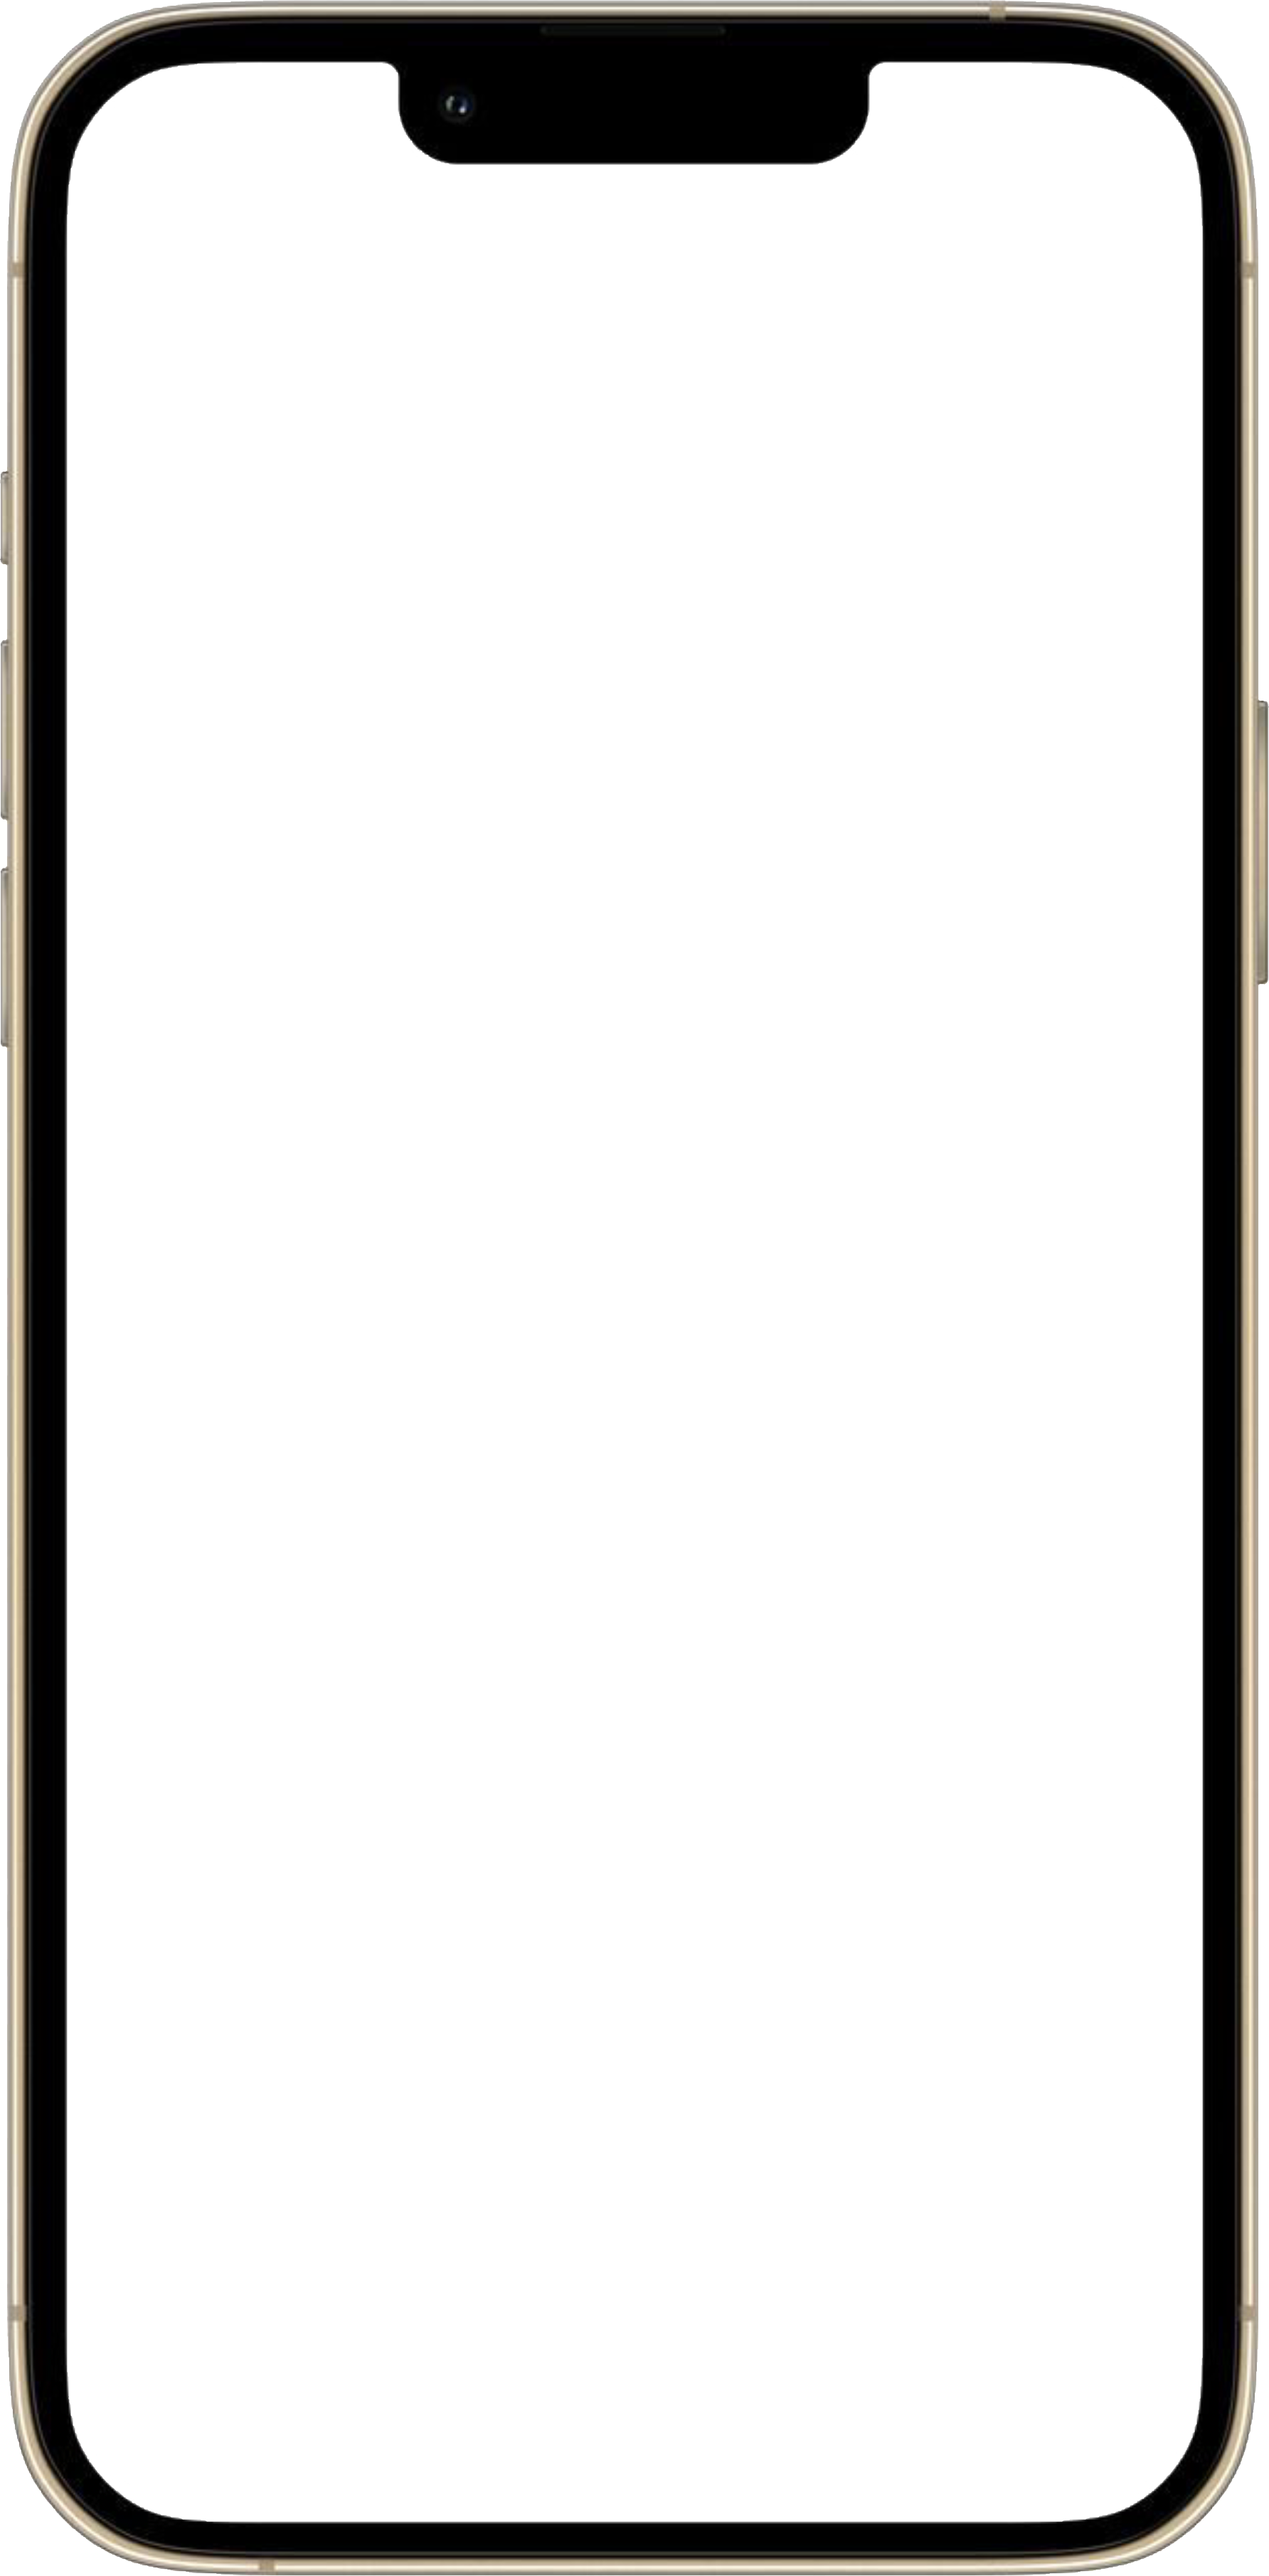
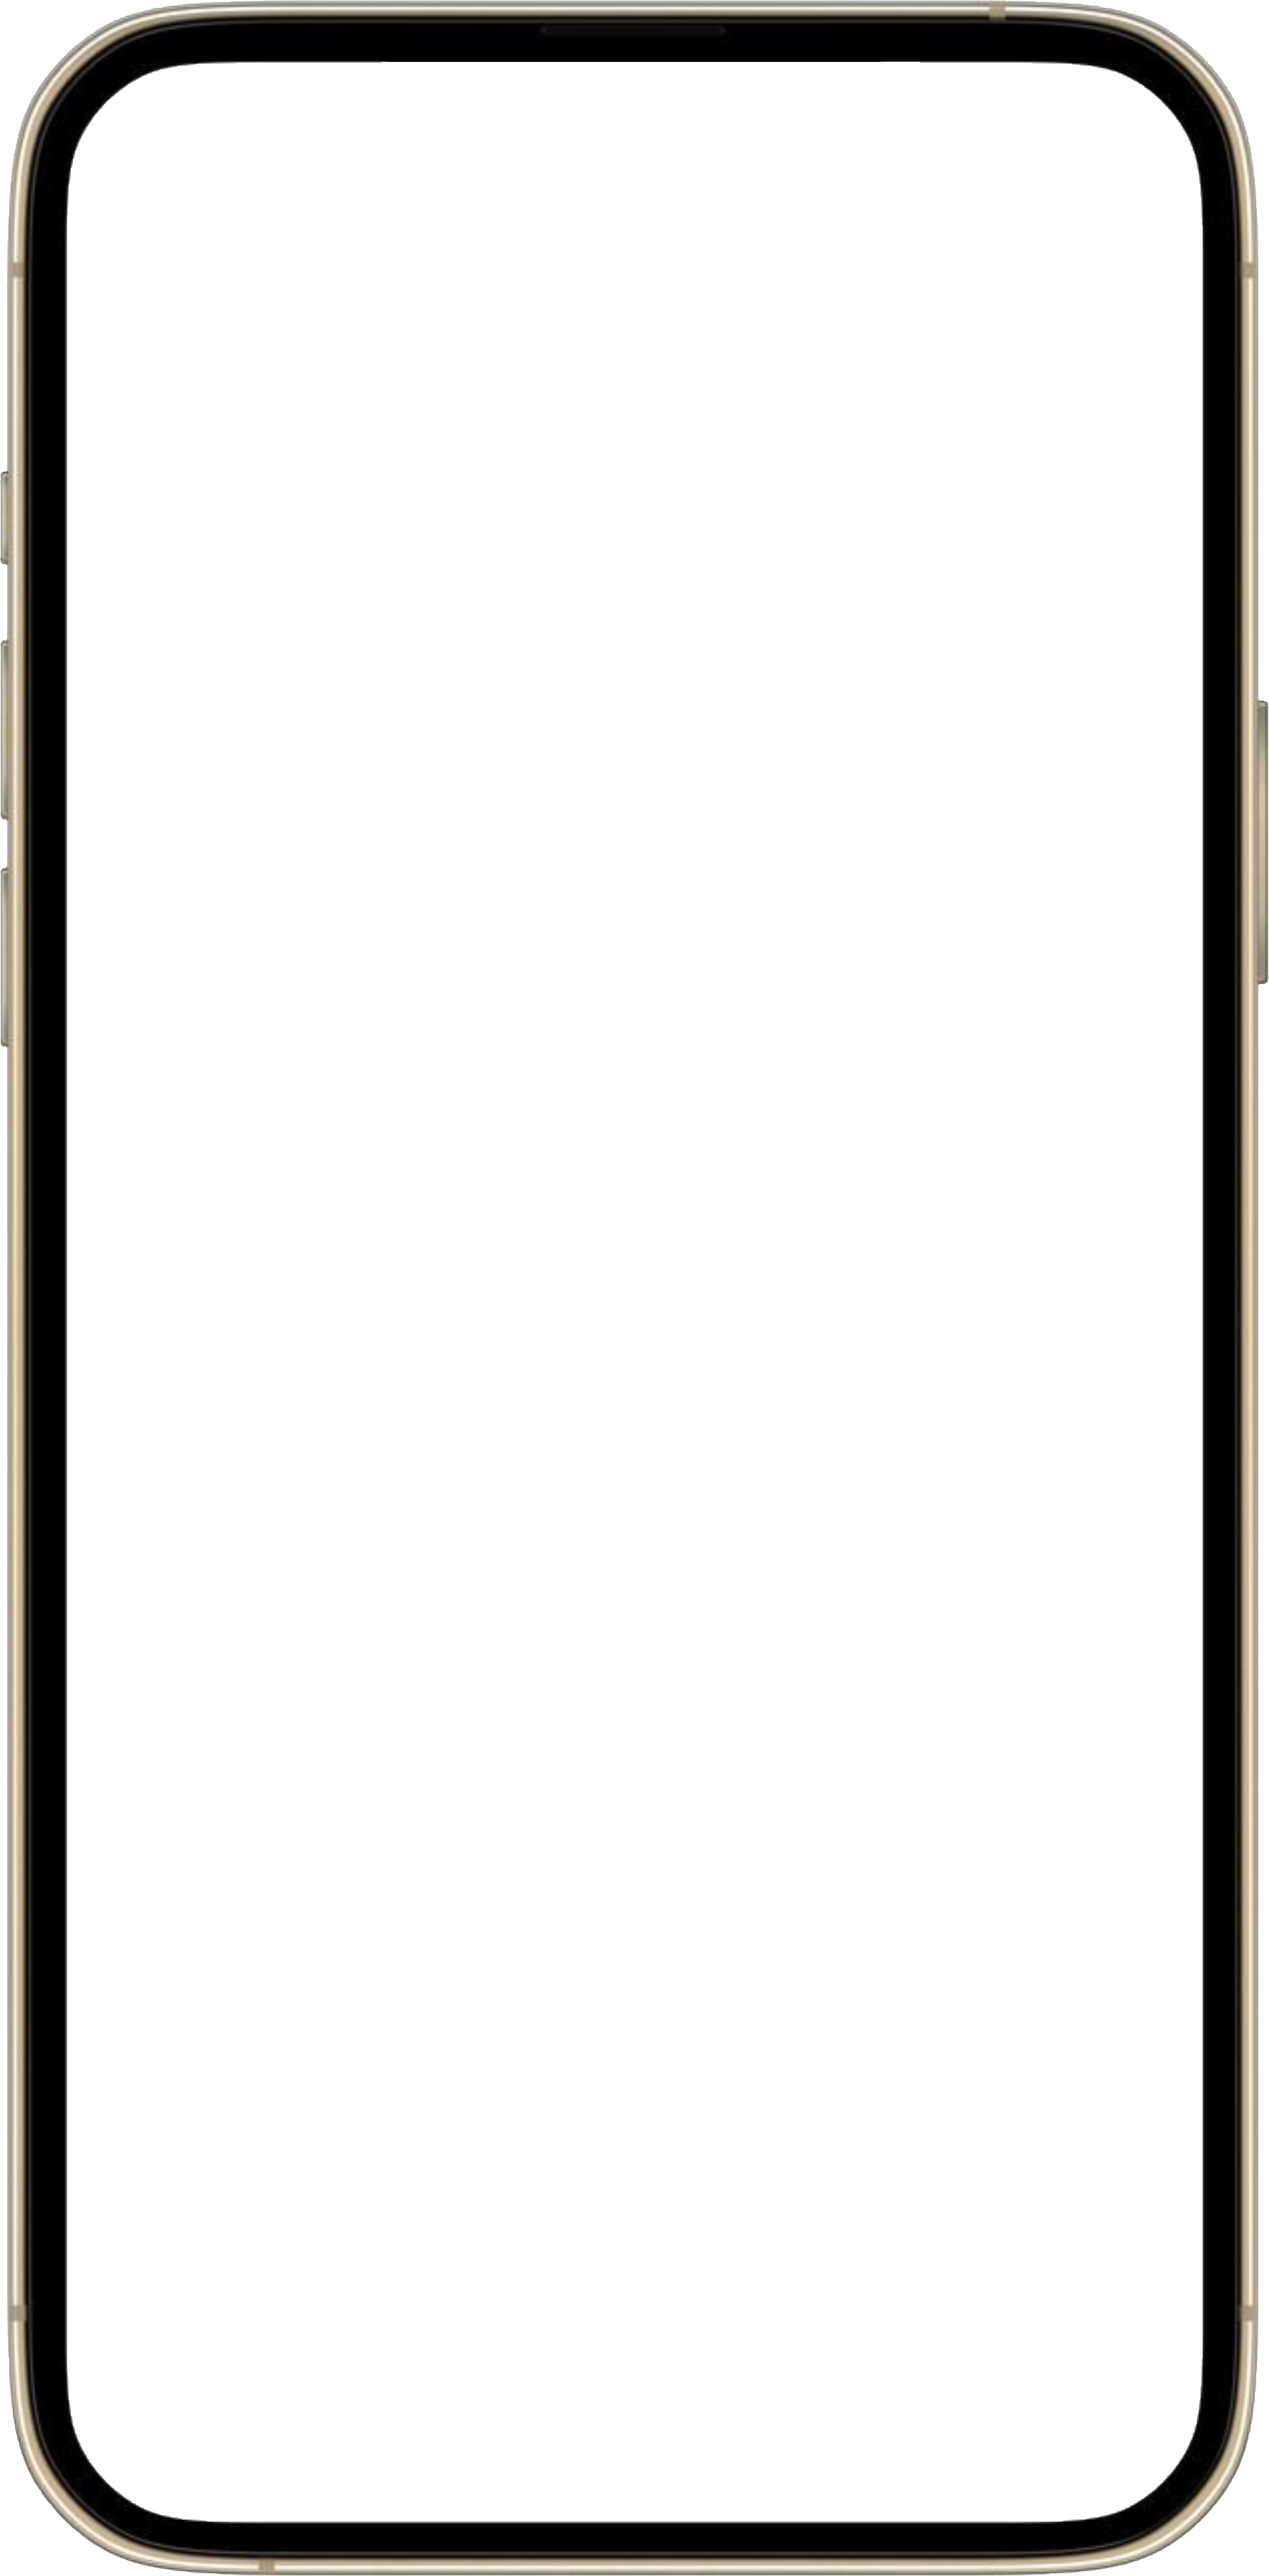
update global menu and background image

Changed region(s): [[0.3083, 0.0, 0.7091, 0.0624]]

diff --git a/skills.html b/skills.html
@@ -46,22 +46,25 @@
 <body>
     <div class="wrap">
         <div class="phone-wrap">
-            <div class="menu-popup">
-                <ul>
-                    <li><a href="./about.html">About</a></li>
-                    <li><a href="./skills.html">Skiils</a></li>
-                    <li><a href="./works.html">Works</a></li>
-                    <li><a href="./contact.html">Contact</a></li>
-                </ul>
-            </div>
             <div id="phone">
+                <div class="menu-popup">
+                    <ul>
+                        <li><a href="./index.html">Home</a></li>
+                        <li><a href="./about.html">About</a></li>
+                        <li><a href="./skills.html">Skiils</a></li>
+                        <li><a href="./works.html">Works</a></li>
+                        <li><a href="./contact.html">Contact</a></li>
+                    </ul>
+                </div>
                 <img src="./images/phone.png" alt="" class="phone-device">
-                <div class="phone-top skills">
+                <div class="phone-top white">
                     <span>10:15</span>
-                    <div>
-                        <a class="home" href="./index.html"><img src="./images/ico_home.png" alt=""></a>
+                    <div class="dynamic">
                         <span class="menu"><img src="./images/ico_menu_color.png" alt=""></span>
-                        <!-- <img src="./images/wifi.png" alt="" class="wifi"> -->
+                        <span>MENU</span>
+                    </div>
+                    <div class="phone-top-info">
+                        <img src="./images/wifi_white.png" alt="" class="wifi">
                         <img src="./images/ico_battery_white.png" alt="" class="battery">
                     </div>
                 </div>
@@ -131,10 +134,6 @@
                                     <div><img src="./images/ico_license.png" alt=""></div>
                                     <span>정보처리기사</span>
                                 </li>
-                                <!-- <li>
-                                    <div><img src="./images/ico_license.png" alt=""></div>
-                                    <span>2종보통 운전면허</span>
-                                </li> -->
                             </ul>
                         </div>
                     </div>
@@ -150,38 +149,6 @@
 <script src="https://code.highcharts.com/modules/export-data.js"></script>
 <script src="https://code.highcharts.com/modules/accessibility.js"></script>
 <script>
-    function renderIcons() {
-        this.series.forEach(series => {
-            if (!series.icon) {
-                series.icon = this.renderer
-                    .text(
-                        `<i class="fa fa-${series.options.custom.icon}"></i>`,
-                        0,
-                        0,
-                        true
-                    )
-                    .attr({
-                        zIndex: 10
-                    })
-                    .css({
-                        color: series.options.custom.iconColor,
-                        fontSize: '1.5em'
-                    })
-                    .add(this.series[2].group);
-            }
-            series.icon.attr({
-                x: this.chartWidth / 2 - 15,
-                y: this.plotHeight / 2 -
-                    series.points[0].shapeArgs.innerR -
-                    (
-                        series.points[0].shapeArgs.r -
-                        series.points[0].shapeArgs.innerR
-                    ) / 2 +
-                    8
-            });
-        });
-    }
-
     const trackColors = Highcharts.getOptions().colors.map(color =>
         new Highcharts.Color(color).setOpacity(0.3).get()
     );
@@ -198,9 +165,6 @@
             spacingBottom: 0,
             spacingLeft: 0,
             plotBorderWidth: 0,
-            events: {
-                render: renderIcons
-            },
             backgroundColor: 'transparent'
         },
 
@@ -224,17 +188,17 @@
         pane: {
             startAngle: 0,
             endAngle: 360,
-            background: [{ // Track for Conversion
+            background: [{ 
                 outerRadius: '112%',
                 innerRadius: '88%',
                 backgroundColor: 'transparent',
                 borderWidth: 0
-            }, { // Track for Engagement
+            }, { 
                 outerRadius: '87%',
                 innerRadius: '63%',
                 backgroundColor: 'transparent',
                 borderWidth: 0
-            }, { // Track for Feedback
+            }, {
                 outerRadius: '62%',
                 innerRadius: '38%',
                 backgroundColor: 'transparent',
@@ -268,10 +232,6 @@
                 innerRadius: '88%',
                 y: 95
             }],
-            // custom: {
-            //     icon: 'filter',
-            //     iconColor: '#303030'
-            // }
         }, {
             name: 'css',
             data: [{
@@ -280,10 +240,6 @@
                 innerRadius: '63%',
                 y: 95
             }],
-            // custom: {
-            //     icon: 'comments-o',
-            //     iconColor: '#ffffff'
-            // }
         }, {
             name: 'js',
             data: [{
@@ -292,10 +248,6 @@
                 innerRadius: '38%',
                 y: 90
             }],
-            // custom: {
-            //     icon: 'commenting-o',
-            //     iconColor: '#303030'
-            // }
         }]
     });
 

diff --git a/contact.html b/contact.html
@@ -46,22 +46,25 @@
 <body>
     <div class="wrap">
         <div class="phone-wrap">
-            <div class="menu-popup">
-                <ul>
-                    <li><a href="./about.html">About</a></li>
-                    <li><a href="./skills.html">Skiils</a></li>
-                    <li><a href="./works.html">Works</a></li>
-                    <li><a href="./contact.html">Contact</a></li>
-                </ul>
-            </div>
             <div id="phone">
+                <div class="menu-popup">
+                    <ul>
+                        <li><a href="./index.html">Home</a></li>
+                        <li><a href="./about.html">About</a></li>
+                        <li><a href="./skills.html">Skiils</a></li>
+                        <li><a href="./works.html">Works</a></li>
+                        <li><a href="./contact.html">Contact</a></li>
+                    </ul>
+                </div>
                 <img src="./images/phone.png" alt="" class="phone-device">
                 <div class="phone-top">
                     <span>10:15</span>
-                    <div>
-                        <a class="home" href="./index.html"><img src="./images/ico_home.png" alt=""></a>
+                    <div class="dynamic">
                         <span class="menu"><img src="./images/ico_menu_color.png" alt=""></span>
-                        <!-- <img src="./images/wifi.png" alt="" class="wifi"> -->
+                        <span>MENU</span>
+                    </div>
+                    <div class="phone-top-info">
+                        <img src="./images/wifi.png" alt="" class="wifi">
                         <img src="./images/ico_battery.png" alt="" class="battery">
                     </div>
                 </div>

diff --git a/works.html b/works.html
@@ -66,22 +66,25 @@
 <body>
     <div class="wrap">
         <div class="phone-wrap">
-            <div class="menu-popup">
-                <ul>
-                    <li><a href="./about.html">About</a></li>
-                    <li><a href="./skills.html">Skiils</a></li>
-                    <li><a href="./works.html">Works</a></li>
-                    <li><a href="./contact.html">Contact</a></li>
-                </ul>
-            </div>
             <div id="phone">
+                <div class="menu-popup">
+                    <ul>
+                        <li><a href="./index.html">Home</a></li>
+                        <li><a href="./about.html">About</a></li>
+                        <li><a href="./skills.html">Skiils</a></li>
+                        <li><a href="./works.html">Works</a></li>
+                        <li><a href="./contact.html">Contact</a></li>
+                    </ul>
+                </div>
                 <img src="./images/phone.png" alt="" class="phone-device">
                 <div class="phone-top">
                     <span>10:15</span>
-                    <div>
-                        <a class="home" href="./index.html"><img src="./images/ico_home.png" alt=""></a>
+                    <div class="dynamic">
                         <span class="menu"><img src="./images/ico_menu_color.png" alt=""></span>
-                        <!-- <img src="./images/wifi.png" alt="" class="wifi"> -->
+                        <span>MENU</span>
+                    </div>
+                    <div class="phone-top-info">
+                        <img src="./images/wifi.png" alt="" class="wifi">
                         <img src="./images/ico_battery.png" alt="" class="battery">
                     </div>
                 </div>

diff --git a/css/main.css b/css/main.css
@@ -60,11 +60,13 @@
 .navigation ul li:not(:last-child) {margin-bottom: 1.5vh;}
 .navigation ul li span {width: fit-content; display: inline-block;}
 .phone-top {position: absolute; top: 25px; width: 100%; padding: 0 45px 0 50px; box-sizing: border-box; font-size: 14px; color: #000; font-weight: 500; display: flex; align-items: center; justify-content: space-between; z-index: 9}
-.phone-top.skills {color: #fff;}
+.phone-top.white {color: #fff;}
 .phone-top div {display: flex; align-items: center; gap: 5px;}
-.phone-top .home img, .phone-top .menu img {height: 18px;}
+.phone-top .dynamic {font-size: 12px; background-color: #000; border-radius: 25px; padding: 3px 12px; box-sizing: border-box; min-width: 115px; color: #eee; font-weight: 300; justify-content: space-between;}
+.phone-top .dynamic .menu, .phone-top .dynamic .menu img {height: 15px;}
+.phone-top.white .dynamic {background-color: #fff; color: #000;}
 .phone-top .wifi {height: 15px;}
-.phone-top .battery {height: 20px;}
+.phone-top .battery {height: 22px;}
 .content-top {width: 100%; display: flex; align-items: center; justify-content: space-between; padding: 30px 15px 12px 10px; box-sizing: border-box; border-top-left-radius: 40px; border-top-right-radius: 40px;}
 .content-top span {z-index: 3;}
 .content-top span a {display: block;}

diff --git a/about.html b/about.html
@@ -49,6 +49,7 @@
             <div id="phone">
                 <div class="menu-popup">
                     <ul>
+                        <li><a href="./index.html">Home</a></li>
                         <li><a href="./about.html">About</a></li>
                         <li><a href="./skills.html">Skiils</a></li>
                         <li><a href="./works.html">Works</a></li>
@@ -58,10 +59,12 @@
                 <img src="./images/phone.png" alt="" class="phone-device">
                 <div class="phone-top">
                     <span>10:15</span>
-                    <div>
-                        <a class="home" href="./index.html"><img src="./images/ico_home.png" alt=""></a>
+                    <div class="dynamic">
                         <span class="menu"><img src="./images/ico_menu_color.png" alt=""></span>
-                        <!-- <img src="./images/wifi.png" alt="" class="wifi"> -->
+                        <span>MENU</span>
+                    </div>
+                    <div class="phone-top-info">
+                        <img src="./images/wifi.png" alt="" class="wifi">
                         <img src="./images/ico_battery.png" alt="" class="battery">
                     </div>
                 </div>

diff --git a/index.html b/index.html
@@ -47,14 +47,14 @@
     <div class="wrap">
         <div class="phone-wrap">
             <div id="phone">
-                <div class="phone-top">
+                <div class="phone-top white">
                     <span>10:15</span>
                     <div>
-                        <img src="./images/wifi.png" alt="" class="wifi">
-                        <img src="./images/ico_battery.png" alt="" class="battery">
+                        <img src="./images/wifi_white.png" alt="" class="wifi">
+                        <img src="./images/ico_battery_white.png" alt="" class="battery">
                     </div>
                 </div>
-                <img src="./images/phone1.png" alt="" class="phone-device">
+                <img src="./images/phone_img.png" alt="" class="phone-device">
                 <div class="app-wrap">
                     <ul>
                         <li>
